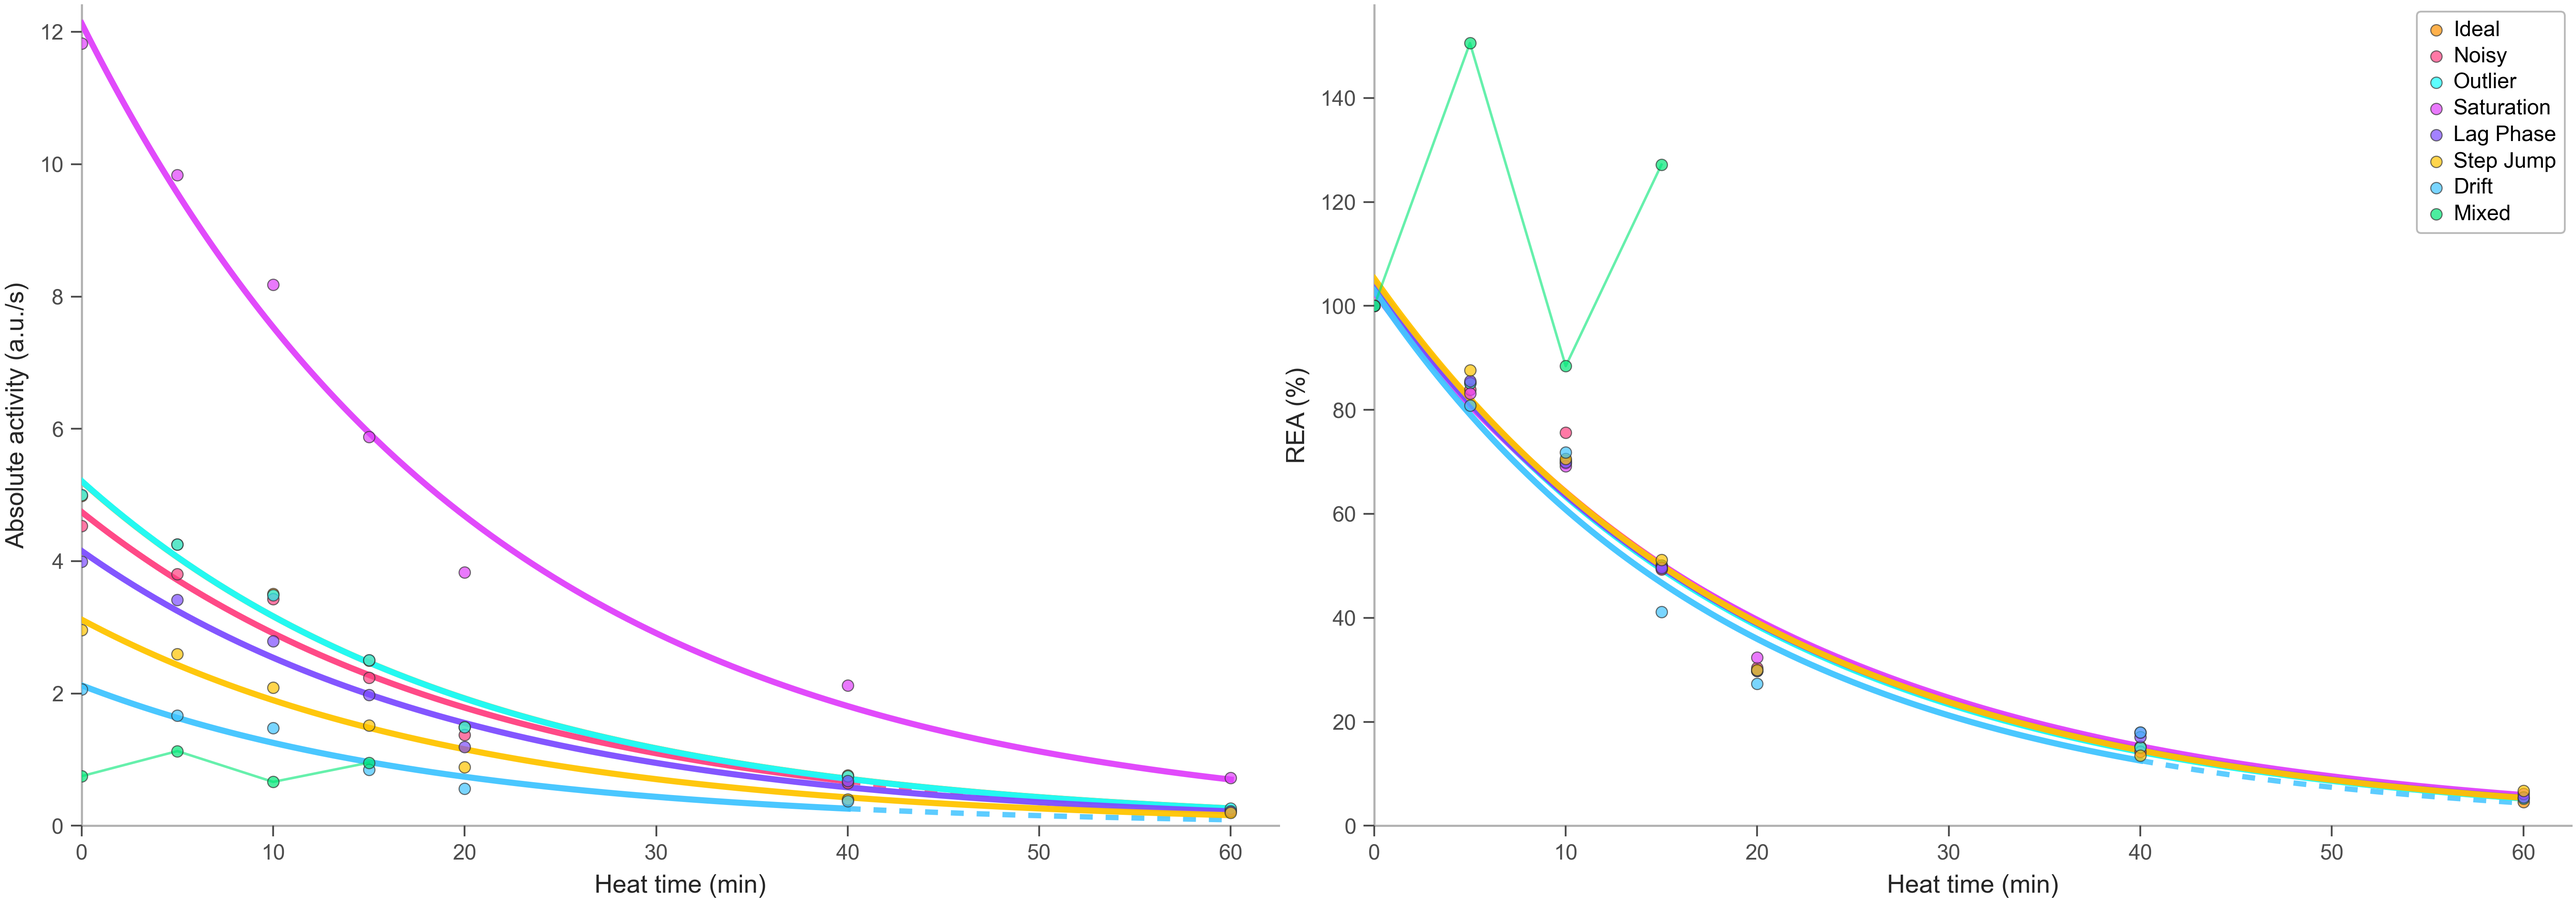
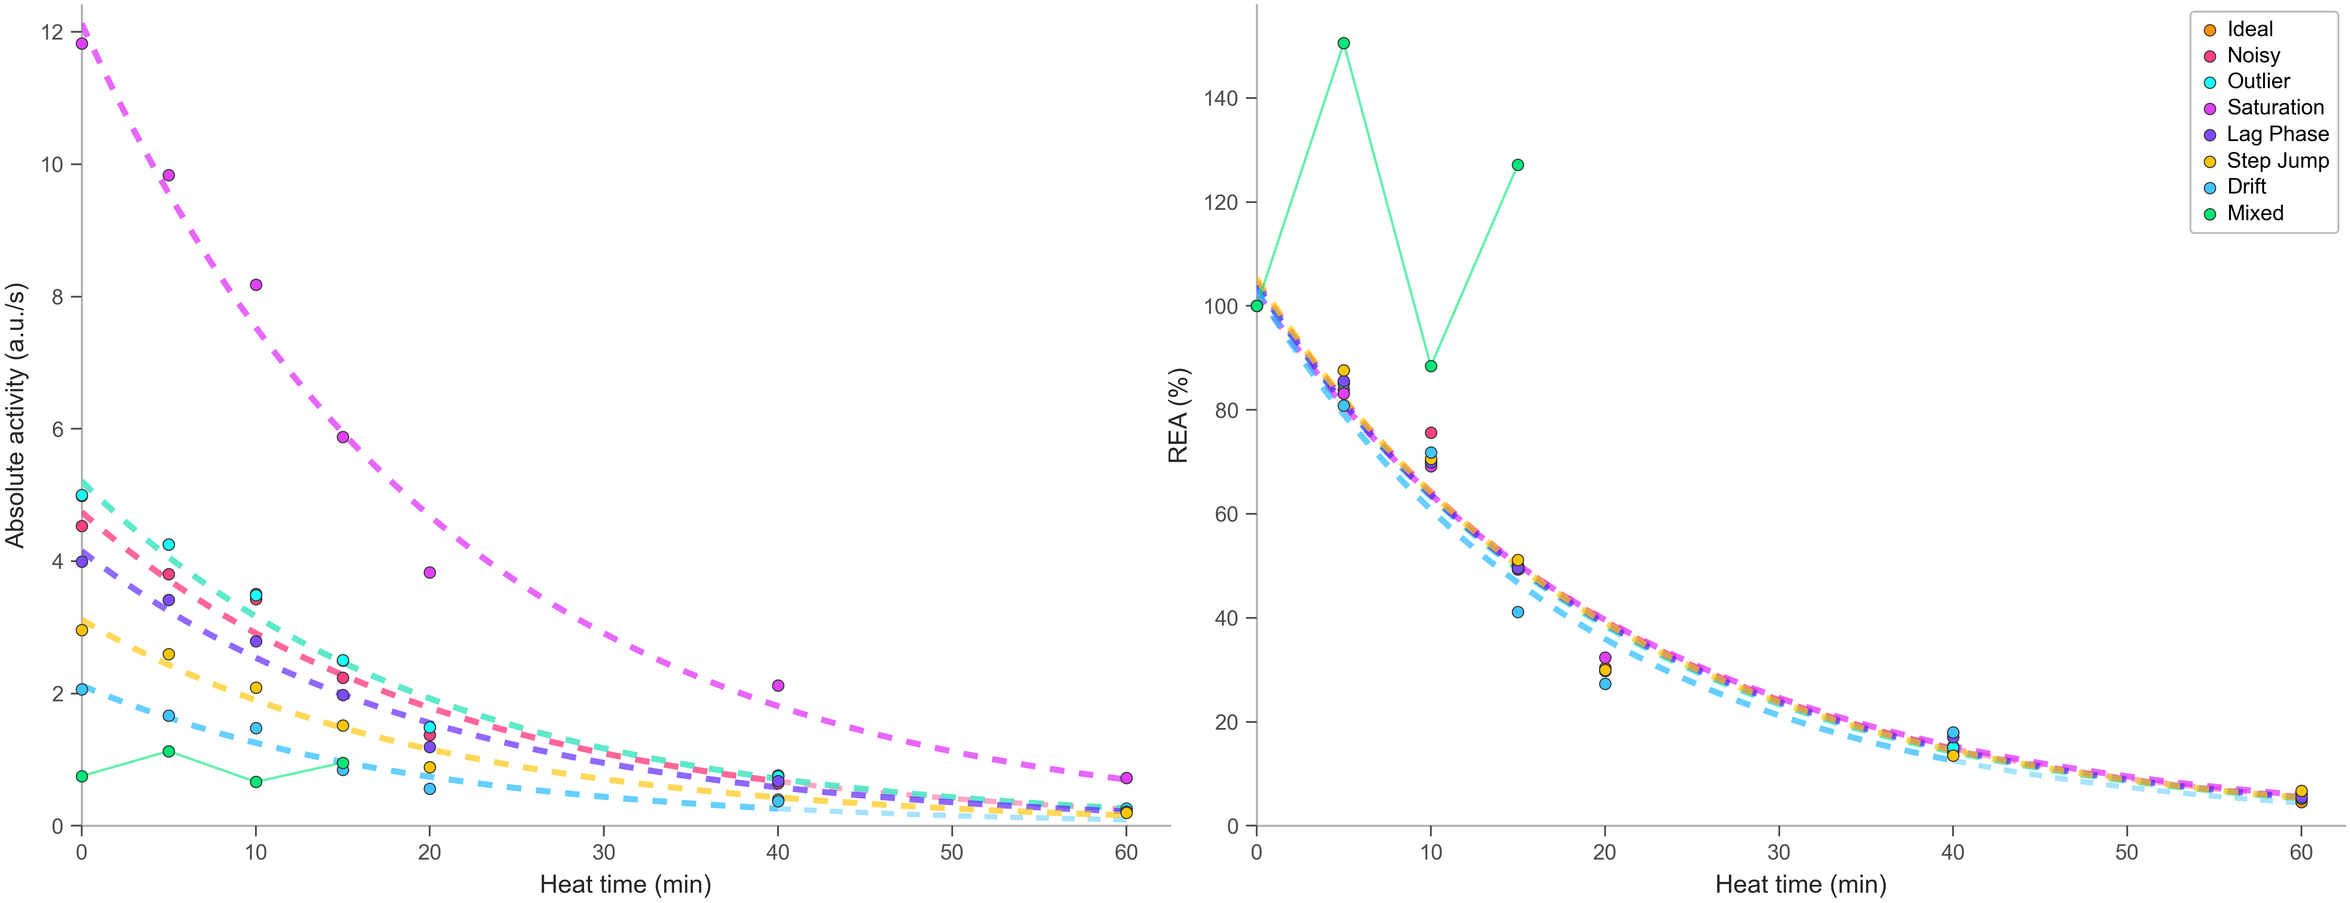
checkpoint: 2026-02-03 20:44 JST

diff --git a/src/gox_plate_pipeline/polymer_timeseries.py b/src/gox_plate_pipeline/polymer_timeseries.py
@@ -8,6 +8,7 @@ from dataclasses import dataclass
 from pathlib import Path
 from typing import Any, Optional
 
+import colorsys
 import numpy as np
 import pandas as pd
 import yaml
@@ -478,7 +479,49 @@ def plot_per_polymer_timeseries(
         c = float(fit_obj.c) if fit_obj.c is not None else 0.0
         return c + (fit_obj.y0 - c) * np.exp(-fit_obj.k * tt)
 
-    def _draw_fit_with_extension(ax: Any, fit_obj: ExpDecayFit, t_obs: np.ndarray, color_hex: str) -> None:
+    def _to_fluorescent_color(color_hex: str) -> str:
+        """
+        Convert a color to a fluorescent (bright, high-saturation) version.
+        Increases saturation and brightness while maintaining hue.
+        """
+        # Remove '#' if present
+        hex_str = color_hex.lstrip('#')
+        # Convert hex to RGB (0-255)
+        r = int(hex_str[0:2], 16) / 255.0
+        g = int(hex_str[2:4], 16) / 255.0
+        b = int(hex_str[4:6], 16) / 255.0
+        
+        # Convert RGB to HSV
+        h, s, v = colorsys.rgb_to_hsv(r, g, b)
+        
+        # Increase saturation (toward 1.0) and brightness (toward 1.0) for fluorescent effect
+        # Blend original saturation with 0.9 (high saturation)
+        s_fluorescent = min(1.0, s * 0.3 + 0.9 * 0.7)
+        # Blend original brightness with 1.0 (maximum brightness)
+        v_fluorescent = min(1.0, v * 0.4 + 1.0 * 0.6)
+        
+        # Convert back to RGB
+        r_new, g_new, b_new = colorsys.hsv_to_rgb(h, s_fluorescent, v_fluorescent)
+        
+        # Convert to hex
+        return "#{:02x}{:02x}{:02x}".format(
+            int(r_new * 255),
+            int(g_new * 255),
+            int(b_new * 255)
+        )
+
+    def _draw_fit_with_extension(ax: Any, fit_obj: ExpDecayFit, t_obs: np.ndarray, color_hex: str, *, use_dashed_main: bool = False) -> None:
+        """
+        Draw fitted curve with extension.
+        
+        Args:
+            ax: Matplotlib axes
+            fit_obj: Exponential decay fit object
+            t_obs: Observed time points
+            color_hex: Base color in hex format
+            use_dashed_main: If True, main curve is dashed (for all_polymers plots).
+                            If False, main curve is solid (for per_polymer plots).
+        """
         t_obs = np.asarray(t_obs, dtype=float)
         t_obs = t_obs[np.isfinite(t_obs)]
         if t_obs.size == 0:
@@ -486,21 +529,38 @@ def plot_per_polymer_timeseries(
         t_min_obs = float(np.min(t_obs))
         t_max_obs = float(np.max(t_obs))
 
-        # Solid on the observed domain used for fitting.
-        # Increased opacity for better visibility
+        # Convert to fluorescent color (bright, high-saturation)
+        color_fluorescent = _to_fluorescent_color(color_hex)
+        
+        # Main curve on the observed domain used for fitting.
         tt_main = np.linspace(t_min_obs, t_max_obs, 220)
         yy_main = _eval_fit_curve(fit_obj, tt_main)
-        ax.plot(tt_main, yy_main, color=color_hex, linewidth=1.7, alpha=0.95, zorder=8)
+        if use_dashed_main:
+            # per_polymer: main curve is dashed
+            ax.plot(tt_main, yy_main, color=color_fluorescent, linewidth=1.7, alpha=0.70, linestyle=(0, (2.4, 2.4)), zorder=8)
+        else:
+            # all_polymers: main curve is solid
+            ax.plot(tt_main, yy_main, color=color_fluorescent, linewidth=1.7, alpha=0.70, zorder=8)
 
         # Dashed extension where points are missing (0-60 min design range).
         if t_min_obs > 0.0:
             tt_pre = np.linspace(0.0, t_min_obs, 120)
             yy_pre = _eval_fit_curve(fit_obj, tt_pre)
-            ax.plot(tt_pre, yy_pre, color=color_hex, linewidth=1.5, alpha=0.85, linestyle=(0, (2.4, 2.4)), zorder=7)
+            if use_dashed_main:
+                # per_polymer: extension with higher transparency
+                ax.plot(tt_pre, yy_pre, color=color_fluorescent, linewidth=1.5, alpha=0.40, linestyle=(0, (2.4, 2.4)), zorder=7)
+            else:
+                # all_polymers: extension with normal transparency
+                ax.plot(tt_pre, yy_pre, color=color_fluorescent, linewidth=1.5, alpha=0.60, linestyle=(0, (2.4, 2.4)), zorder=7)
         if t_max_obs < 60.0:
             tt_post = np.linspace(t_max_obs, 60.0, 140)
             yy_post = _eval_fit_curve(fit_obj, tt_post)
-            ax.plot(tt_post, yy_post, color=color_hex, linewidth=1.5, alpha=0.85, linestyle=(0, (2.4, 2.4)), zorder=7)
+            if use_dashed_main:
+                # per_polymer: extension with higher transparency
+                ax.plot(tt_post, yy_post, color=color_fluorescent, linewidth=1.5, alpha=0.40, linestyle=(0, (2.4, 2.4)), zorder=7)
+            else:
+                # all_polymers: extension with normal transparency
+                ax.plot(tt_post, yy_post, color=color_fluorescent, linewidth=1.5, alpha=0.60, linestyle=(0, (2.4, 2.4)), zorder=7)
 
     def _info_box_text(rhs: str, r2: Optional[float], t50: Optional[float] = None) -> str:
         # Format according to CHAT_HANDOVER.md: mathtext with R² and t₅₀
@@ -577,17 +637,19 @@ def plot_per_polymer_timeseries(
 
             # Left: Absolute activity
             # Set zorder high so points appear in front of axes (especially heat time 0 points)
-            ax_left.scatter(t, aa, s=12, color=color, edgecolors="0.2", linewidths=0.4, alpha=0.95, zorder=30)
+            # clip_on=False to prevent clipping at axes boundary (especially for heat_time=0 points)
+            # alpha=1.0 for fully opaque plots
+            ax_left.scatter(t, aa, s=12, color=color, edgecolors="0.2", linewidths=0.4, alpha=1.0, zorder=30, clip_on=False)
             if use_exp_abs:
                 if fit_abs.model == "exp":
                     abs_rhs = _format_exp_rhs_simple(float(fit_abs.y0), float(fit_abs.k))
                 else:
                     c = float(fit_abs.c) if fit_abs.c is not None else 0.0
                     abs_rhs = _format_exp_rhs_plateau(c, float(fit_abs.y0), float(fit_abs.k))
-                _draw_fit_with_extension(ax_left, fit_abs, t, color)
+                _draw_fit_with_extension(ax_left, fit_abs, t, color, use_dashed_main=False)
                 info_text_left = _info_box_text(abs_rhs, float(fit_abs.r2))
             else:
-                ax_left.plot(t, aa, color=color, linewidth=0.8, alpha=0.85, zorder=8)
+                ax_left.plot(t, aa, color=color, linewidth=0.8, alpha=0.85, zorder=8, clip_on=False)
                 info_text_left = _info_box_text(r"\mathrm{polyline}", None)
             txt_left = ax_left.annotate(
                 info_text_left,
@@ -652,18 +714,20 @@ def plot_per_polymer_timeseries(
 
             # Right: REA (%)
             # Set zorder high so points appear in front of axes (especially heat time 0 points)
-            ax_right.scatter(t, rea, s=12, color=color, edgecolors="0.2", linewidths=0.4, alpha=0.95, zorder=30)
+            # clip_on=False to prevent clipping at axes boundary (especially for heat_time=0 points)
+            # alpha=1.0 for fully opaque plots
+            ax_right.scatter(t, rea, s=12, color=color, edgecolors="0.2", linewidths=0.4, alpha=1.0, zorder=30, clip_on=False)
             if use_exp_rea and fit_rea is not None:
                 if fit_rea.model == "exp":
                     rea_rhs = _format_exp_rhs_simple(float(fit_rea.y0), float(fit_rea.k))
                 else:
                     c = float(fit_rea.c) if fit_rea.c is not None else 0.0
                     rea_rhs = _format_exp_rhs_plateau(c, float(fit_rea.y0), float(fit_rea.k))
-                _draw_fit_with_extension(ax_right, fit_rea, t, color)
+                _draw_fit_with_extension(ax_right, fit_rea, t, color, use_dashed_main=False)
                 t50_show = t50_model if t50_model is not None else t50_lin
                 info_text_right = _info_box_text(rea_rhs, float(fit_rea.r2), t50=t50_show)
             else:
-                ax_right.plot(t, rea, color=color, linewidth=0.8, alpha=0.85, zorder=8)
+                ax_right.plot(t, rea, color=color, linewidth=0.8, alpha=0.85, zorder=8, clip_on=False)
                 t50_show = t50_lin
                 info_text_right = _info_box_text(r"\mathrm{polyline}", None, t50=t50_show)
             txt_right = ax_right.annotate(
@@ -742,12 +806,14 @@ def plot_per_polymer_timeseries(
                 else:
                     y_at_t50 = 50.0  # Fallback to 50.0 if no fit
                 # Horizontal line: from left edge (x=0) to t50 intersection (left side only)
-                # Use zorder=11 to be above fitted curve (zorder=8) and data points (zorder=30) so intersection is clearly visible
-                ax_right.plot([0.0, t50_val], [y_at_t50, y_at_t50], linestyle=(0, (3, 2)), color="0.5", linewidth=0.6, alpha=0.8, zorder=11)
+                # Use zorder=5 to be behind fitted curve (zorder=8) but still visible
+                ax_right.plot([0.0, t50_val], [y_at_t50, y_at_t50], linestyle=(0, (3, 2)), color="0.5", linewidth=0.6, alpha=0.8, zorder=5)
                 # Vertical line: from bottom to t50 intersection (bottom side only)
-                ax_right.plot([t50_val, t50_val], [y_bottom, y_at_t50], linestyle=(0, (3, 2)), color="0.4", linewidth=0.6, alpha=0.8, zorder=11)
+                ax_right.plot([t50_val, t50_val], [y_bottom, y_at_t50], linestyle=(0, (3, 2)), color="0.4", linewidth=0.6, alpha=0.8, zorder=5)
 
             fig.tight_layout(pad=0.3)
+            # Increase left margin to accommodate clip_on=False markers (especially heat_time=0 points)
+            fig.subplots_adjust(left=0.12)
             # Ensure spines visibility and color after tight_layout (per_polymer: only x-axis and y-axis, light gray)
             ax_left.spines["top"].set_visible(False)
             ax_left.spines["right"].set_visible(False)
@@ -822,16 +888,18 @@ def plot_per_polymer_timeseries(
             pid_label = safe_label(str(pid))
 
             # Plot data points (high zorder so points appear in front of axes, especially heat time 0)
-            ax_abs.scatter(t, aa, s=10, color=color, edgecolors="0.2", linewidths=0.3, alpha=0.7, zorder=30, label=pid_label)
+            # clip_on=False to prevent clipping at axes boundary (especially for heat_time=0 points)
+            # alpha=1.0 for fully opaque plots
+            ax_abs.scatter(t, aa, s=10, color=color, edgecolors="0.2", linewidths=0.3, alpha=1.0, zorder=30, label=pid_label, clip_on=False)
 
             # Plot fit curve if available
             # y0 is optional: if provided, used as initial guess; otherwise estimated from all data points
             y0_abs_init = float(aa[0]) if aa.size > 0 and np.isfinite(float(aa[0])) else None
             fit_abs = fit_exponential_decay(t, aa, y0=y0_abs_init, min_points=4)
             if fit_abs is not None and np.isfinite(float(fit_abs.r2)) and float(fit_abs.r2) >= 0.70:
-                _draw_fit_with_extension(ax_abs, fit_abs, t, color)
+                _draw_fit_with_extension(ax_abs, fit_abs, t, color, use_dashed_main=True)
             else:
-                ax_abs.plot(t, aa, color=color, linewidth=0.7, alpha=0.6, zorder=8)
+                ax_abs.plot(t, aa, color=color, linewidth=0.7, alpha=0.6, zorder=8, clip_on=False)
 
         ax_abs.set_xlabel("Heat time (min)")
         ax_abs.set_ylabel("Absolute activity (a.u./s)")
@@ -871,7 +939,9 @@ def plot_per_polymer_timeseries(
             pid_label = safe_label(str(pid))
 
             # Plot data points (high zorder so points appear in front of axes, especially heat time 0)
-            ax_rea.scatter(t, rea, s=10, color=color, edgecolors="0.2", linewidths=0.3, alpha=0.7, zorder=30, label=pid_label)
+            # clip_on=False to prevent clipping at axes boundary (especially for heat_time=0 points)
+            # alpha=1.0 for fully opaque plots
+            ax_rea.scatter(t, rea, s=10, color=color, edgecolors="0.2", linewidths=0.3, alpha=1.0, zorder=30, label=pid_label, clip_on=False)
 
             # Plot fit curve if available
             # y0 is optional: if provided, used as initial guess; otherwise estimated from all data points
@@ -879,9 +949,9 @@ def plot_per_polymer_timeseries(
             fit_rea = fit_exponential_decay(t, rea, y0=y0_rea_init, min_points=4)
             use_exp_rea = bool(fit_rea is not None and np.isfinite(float(fit_rea.r2)) and float(fit_rea.r2) >= 0.70)
             if use_exp_rea:
-                _draw_fit_with_extension(ax_rea, fit_rea, t, color)
+                _draw_fit_with_extension(ax_rea, fit_rea, t, color, use_dashed_main=True)
             else:
-                ax_rea.plot(t, rea, color=color, linewidth=0.7, alpha=0.6, zorder=8)
+                ax_rea.plot(t, rea, color=color, linewidth=0.7, alpha=0.6, zorder=8, clip_on=False)
 
         ax_rea.set_xlabel("Heat time (min)")
         ax_rea.set_ylabel("REA (%)")
@@ -938,6 +1008,8 @@ def plot_per_polymer_timeseries(
                 handletextpad=0.3,
             )
             fig_all.tight_layout(pad=0.3)
+            # Increase left margin to accommodate clip_on=False markers (especially heat_time=0 points)
+            fig_all.subplots_adjust(left=0.12)
         
         # Ensure spines zorder and color are set correctly after tight_layout (savefig may reset it)
         # Set zorder very low so axes are definitely behind data points
@@ -1031,7 +1103,9 @@ def plot_per_polymer_timeseries(
                 pid_label = safe_label(str(pid))
                 
                 # Plot data points (high zorder so points appear in front of axes, especially heat time 0)
-                ax_abs_rep.scatter(t, aa, s=10, color=color, edgecolors="0.2", linewidths=0.3, alpha=0.7, zorder=30, label=pid_label)
+                # clip_on=False to prevent clipping at axes boundary (especially for heat_time=0 points)
+                # alpha=1.0 for fully opaque plots
+                ax_abs_rep.scatter(t, aa, s=10, color=color, edgecolors="0.2", linewidths=0.3, alpha=1.0, zorder=30, label=pid_label, clip_on=False)
                 
                 # Plot fit curve if available
                 y0_abs_init = float(aa[0]) if aa.size > 0 and np.isfinite(float(aa[0])) else None
@@ -1039,7 +1113,7 @@ def plot_per_polymer_timeseries(
                 if fit_abs is not None and np.isfinite(float(fit_abs.r2)) and float(fit_abs.r2) >= 0.70:
                     _draw_fit_with_extension(ax_abs_rep, fit_abs, t, color)
                 else:
-                    ax_abs_rep.plot(t, aa, color=color, linewidth=0.7, alpha=0.6, zorder=8)
+                    ax_abs_rep.plot(t, aa, color=color, linewidth=0.7, alpha=0.6, zorder=8, clip_on=False)
             
             ax_abs_rep.set_xlabel("Heat time (min)")
             ax_abs_rep.set_ylabel("Absolute activity (a.u./s)")
@@ -1071,7 +1145,9 @@ def plot_per_polymer_timeseries(
                 pid_label = safe_label(str(pid))
                 
                 # Plot data points (high zorder so points appear in front of axes, especially heat time 0)
-                ax_rea_rep.scatter(t, rea, s=10, color=color, edgecolors="0.2", linewidths=0.3, alpha=0.7, zorder=30, label=pid_label)
+                # clip_on=False to prevent clipping at axes boundary (especially for heat_time=0 points)
+                # alpha=1.0 for fully opaque plots
+                ax_rea_rep.scatter(t, rea, s=10, color=color, edgecolors="0.2", linewidths=0.3, alpha=1.0, zorder=30, label=pid_label, clip_on=False)
                 
                 # Plot fit curve if available
                 y0_rea_init = float(rea[0]) if rea.size > 0 and np.isfinite(float(rea[0])) else 100.0
@@ -1080,7 +1156,7 @@ def plot_per_polymer_timeseries(
                 if use_exp_rea:
                     _draw_fit_with_extension(ax_rea_rep, fit_rea, t, color)
                 else:
-                    ax_rea_rep.plot(t, rea, color=color, linewidth=0.7, alpha=0.6, zorder=8)
+                    ax_rea_rep.plot(t, rea, color=color, linewidth=0.7, alpha=0.6, zorder=8, clip_on=False)
                 
                 # Calculate t50 and draw intersection lines (left and bottom only)
                 t50_model = fit_rea.t50 if (fit_rea is not None and use_exp_rea) else None
@@ -1096,10 +1172,10 @@ def plot_per_polymer_timeseries(
                     else:
                         y_at_t50 = 50.0  # Fallback to 50.0 if no fit
                     # Horizontal line: from left edge (x=0) to t50 intersection (left side only)
-                    # Use zorder=11 to be above fitted curve and data points so intersection is clearly visible
-                    ax_rea_rep.plot([0.0, t50_val], [y_at_t50, y_at_t50], linestyle=(0, (3, 2)), color="0.5", linewidth=0.6, alpha=0.8, zorder=11)
+                    # Use zorder=5 to be behind fitted curve (zorder=8) but still visible
+                    ax_rea_rep.plot([0.0, t50_val], [y_at_t50, y_at_t50], linestyle=(0, (3, 2)), color="0.5", linewidth=0.6, alpha=0.8, zorder=5)
                     # Vertical line: from bottom to t50 intersection (bottom side only)
-                    ax_rea_rep.plot([t50_val, t50_val], [y_bottom_rea_rep, y_at_t50], linestyle=(0, (3, 2)), color="0.4", linewidth=0.6, alpha=0.8, zorder=11)
+                    ax_rea_rep.plot([t50_val, t50_val], [y_bottom_rea_rep, y_at_t50], linestyle=(0, (3, 2)), color="0.4", linewidth=0.6, alpha=0.8, zorder=5)
             
             ax_rea_rep.set_xlabel("Heat time (min)")
             ax_rea_rep.set_ylabel("REA (%)")
@@ -1129,6 +1205,9 @@ def plot_per_polymer_timeseries(
                     handletextpad=0.3,
                 )
                 fig_rep.tight_layout(rect=[0, 0, 0.88, 1])
+                # Increase left margin to accommodate clip_on=False markers (especially heat_time=0 points)
+                # Note: rect already sets right margin, so adjust left only
+                fig_rep.subplots_adjust(left=0.12)
             else:
                 ax_rea_rep.legend(
                     loc="upper right",
@@ -1140,6 +1219,8 @@ def plot_per_polymer_timeseries(
                     handletextpad=0.3,
                 )
                 fig_rep.tight_layout(pad=0.3)
+                # Increase left margin to accommodate clip_on=False markers (especially heat_time=0 points)
+                fig_rep.subplots_adjust(left=0.12)
             
             # Ensure spines zorder and color are set correctly before saving (savefig may reset it)
             # Set zorder very low so axes are definitely behind data points

diff --git a/data/processed/synthetic_GOx_rows_test/fit/qc/fit_qc_report.md b/data/processed/synthetic_GOx_rows_test/fit/qc/fit_qc_report.md
@@ -1,6 +1,6 @@
 # Fit QC Report
 
-- Generated: 2026-02-03 20:17:04.980736
+- Generated: 2026-02-03 20:44:25.613060
 
 ## (a) OK / EXCLUDED
 - Total wells: 56
